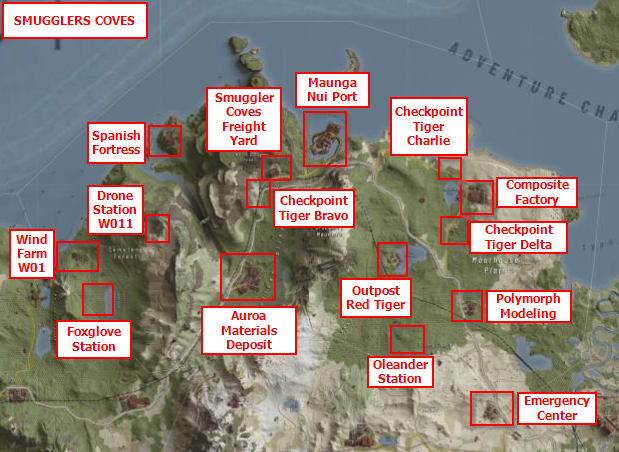
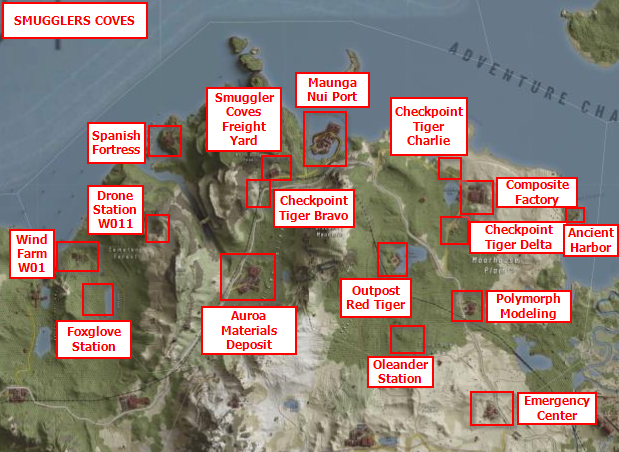
map

Changed region(s): [[0.8901, 0.4646, 1.0, 0.5885]]

diff --git a/index.html b/index.html
@@ -35,7 +35,7 @@ img {
 
 <br>
 
-<button type="button" style="font-family:arial;font-size:70%;background-color:black;color:gray;border:0px" onclick='alert("Added an overlay of whole map with provinces locations when you click on the word provinces to serve as a reminder before choosing.\n\nWORK IN PROGRESS: adding maps shown when a province is selected. This way you see all locations rolled easily and can add others around it. No need to waste time searching locations in game anymore! Know where everything is before heading in the game.")'>v3.6 - CLICK TO SEE CHANGES</button>
+<button type="button" style="font-family:arial;font-size:70%;background-color:black;color:gray;border:0px" onclick='alert("Added an overlay of whole map with provinces locations when you click on the word provinces to serve as a reminder before choosing.\n\nWORK IN PROGRESS: adding maps shown when a province is selected. This way you see all locations rolled easily and can add others around it. No need to waste time searching locations in game anymore! Know where everything is before heading in the game.")'>v3.7 - CLICK TO SEE CHANGES</button>
 
 
 <h3 style="font-family:arial">Select one or more <b><u onclick="on()" style="font-size:110%">provinces</b></u></h3> 
@@ -104,6 +104,7 @@ function off() {
 		document.getElementById("wildcoastMap").style.display = "none";
 		document.getElementById("smugglerscovesMap").style.display = "none";
 		document.getElementById("mounthodgsonMap").style.display = "none";
+		document.getElementById("sinkingcountryMap").style.display = "none";
 		
 		//Grab which provinces are selected
 		var provincesSelected = [];
@@ -141,8 +142,8 @@ function off() {
 		const CapeNorth = ["Skell Foundation Campus","Darkwood Island Port","Bat SAM Site","Construction Site","Campus Data Farm","Underwater Cable Station","Campus Relay Station","A.I Experimental Center","Sentinel Corp. Location"];
 		const DriftwoodIslets = ["Driftwood Islets Testing Zone","Camp Kodiak","Ancient Sanctuary","Ancient Cemetery"];
 		const WildCoast = ["Electric Engine Factory","Outpost Blue Tiger","Toxic Storage Depot","Anchor Point Station","Drone Station W031","Engine R&D Center","Shark Bank Station","Control Station Tiger 01","Youth Spring","Wind Farm W03","Hybrid Engine Factory","Wild Coast Freight Yard","Storage Depot","Checkpoint Tiger Foxtrot","Ancient Harbor"];
-		const SmugglersCoves = ["Maunga Nui Port","Smuggler Coves Freight Yard","Spanish Fortress","Drone Station W011","Wind Farm W01","Foxglove Station","Auroa Materials Deposit","Oleander Station","Polymorph Modeling","Outpost Red Tiger","Checkpoint Tiger Bravo","Checkpoint Tiger Charlie","Checkpoint Tiger Delta","Composite Factory","Emergency Center"];
-		const SinkingCountry = ["Ancient Harbor (Tobacco Point) ","Howard Airfield","Howard Port","Radar Station North","Anti-Aircraft Ruins","Harrier SAM Site","Osprey SAM Site","Sparrowhawk SAM Site","Sentinel Corp. Land Base","Equipment Depot","Ammunition Depot","Checkpoint Tiger Kilo","Checkpoint Tiger Golf","Checkpoint Tiger India","Checkpoint Tiger Juliet","Bunker Edgehod North","Bunker Edgehod South","Camp Tiger"];
+		const SmugglersCoves = ["Ancient Harbor","Maunga Nui Port","Smuggler Coves Freight Yard","Spanish Fortress","Drone Station W011","Wind Farm W01","Foxglove Station","Auroa Materials Deposit","Oleander Station","Polymorph Modeling","Outpost Red Tiger","Checkpoint Tiger Bravo","Checkpoint Tiger Charlie","Checkpoint Tiger Delta","Composite Factory","Emergency Center"];
+		const SinkingCountry = ["Ancient Harbor","Howard Airfield","Howard Port","Radar Station North","Anti-Aircraft Ruins","Harrier SAM Site","Osprey SAM Site","Sparrowhawk SAM Site","Sentinel Corp. Land Base","Equipment Depot","Ammunition Depot","Checkpoint Tiger Kilo","Checkpoint Tiger Golf","Checkpoint Tiger India","Checkpoint Tiger Juliet","Bunker Edgehod North","Bunker Edgehod South","Camp Tiger"];
 		const WhalersBay = ["Checkpoint Weasel Charlie","Checkpoint Weasel Delta","Storage Depot","Mechanical R&D Center","Fanny Bay Port","Land Chassis Factory","Whalers Bay Airfield","Wind Farm W02","Drone Station W061","Blue Cove Station","Ancient Harbor","Construction Site","Checkpoint Weasel Echo","Air Chassis Factory"];
 		const MountHodgson = ["Bald Peak Mine","Chem-Extraction Complex","Silent Valley Mine","Drone Station W041","Checkpoint Tiger Echo","Mining Control Center"];
 		const FenBog = ["BlueCorp Startup","Andersons Farm","Longford Farm","Whitestone Farm","Airship Air Station","Shipping Center","Fen Bog Port","Recycling Facility","Photovoltaic Park W01","Fen Bog Testing Zone","Control Station Tiger 03","Checkpoint Tiger Bravo","Checkpoint Tiger Hotel","Drone Station W052","Control Station Tiger 02","Drone Station W051","Hogweed Station","Ancient Village"];
@@ -403,6 +404,10 @@ function off() {
 			if ( province.match('Mount Hodgson')  ) {
 				document.getElementById("mounthodgsonMap").style.display = "block";
 			}
+			
+			if ( province.match('Sinking Country')  ) {
+				document.getElementById("sinkingcountryMap").style.display = "block";
+			}
 				
 			}
 		);
@@ -445,6 +450,7 @@ function off() {
 <img hidden id='wildcoastMap' src='./images/wildcoastMap.png' alt="wildcoastMap" style="width:500px;border:5px solid black">
 <img hidden id='smugglerscovesMap' src='./images/smugglerscovesMap.png' alt="smugglerscovesMap" style="width:500px;border:5px solid black">
 <img hidden id='mounthodgsonMap' src='./images/mounthodgsonMap.png' alt="mounthodgsonMap" style="width:500px;border:5px solid black">
+<img hidden id='sinkingcountryMap' src='./images/sinkingcountryMap.png' alt="sinkingcountryMap" style="width:500px;border:5px solid black">
 <br>
 
 
